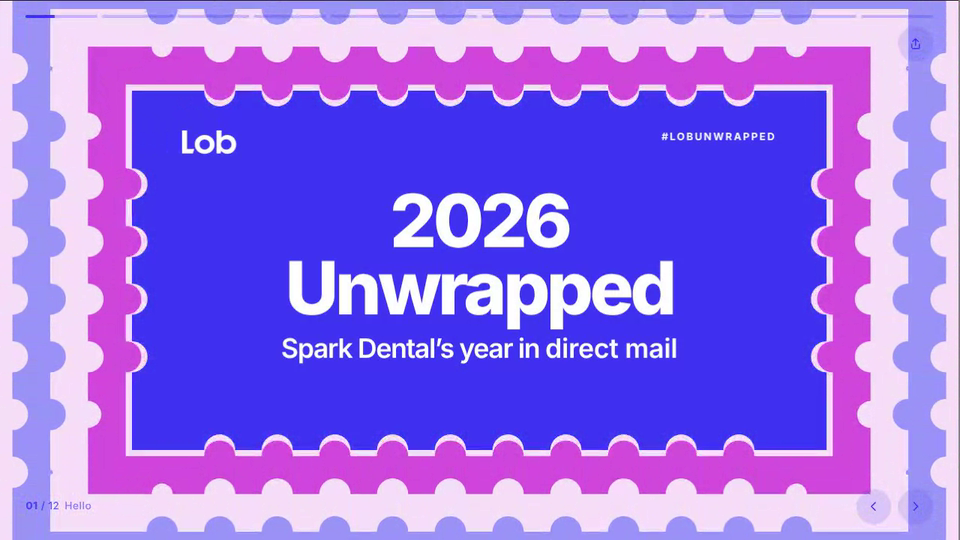
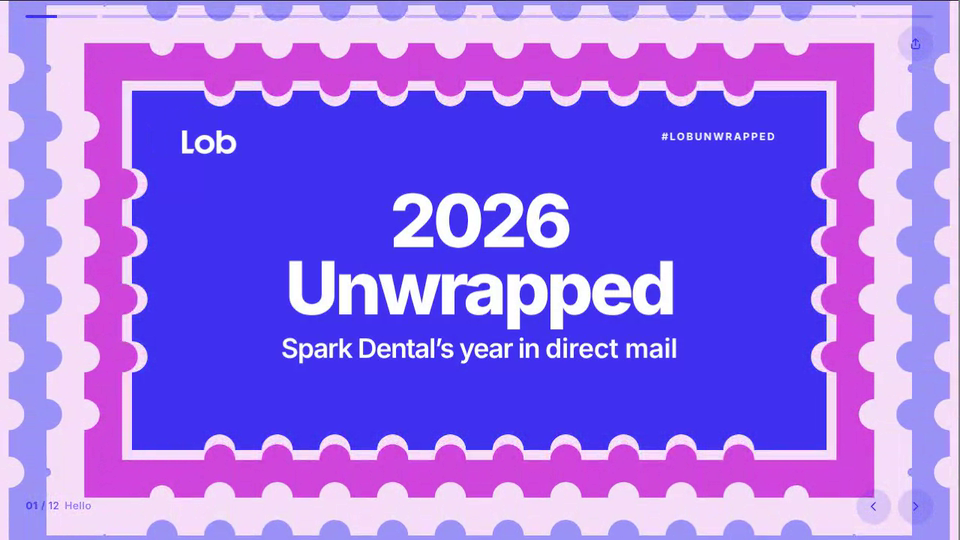
Lob Unwrapped: block map with fixed position and random pop-in, dark pink base behind the PURL rings
Claude-Session: https://claude.ai/code/session_01AHeBdx8DNoKfudp6tSCb8e

diff --git a/lob-unwrapped/index.html b/lob-unwrapped/index.html
@@ -144,7 +144,7 @@ nav.back span{color:#6e6e6e}nav.back b{font-weight:500;color:#fff;overflow:hidde
 .mix small{font:400 calc(var(--u)*3.2)/1.2 var(--sans);opacity:.7}
 @container (max-aspect-ratio:1/1){.mixrow{grid-template-columns:repeat(3,minmax(0,1fr));gap:calc(var(--u)*3)}.mix b{font-size:calc(var(--u)*10)}}
 .scene{width:100%;height:auto;max-height:100%;display:block;overflow:visible}
-.map{position:relative;width:136%;margin:0 -20% 0 -16%;aspect-ratio:1.85;min-height:0}
+.map{position:relative;width:134%;margin:0 -26% 0 -8%;aspect-ratio:1.85;min-height:0}
 @container (max-aspect-ratio:1/1){.map{width:112%;margin:0 -6%}}
 .map canvas{position:absolute;inset:0;width:100%;height:100%}
 .rankwrap{width:100%;display:grid;gap:calc(var(--u)*7)}
@@ -440,7 +440,7 @@ var MIX5=(function(){var base=['circle','rect','square','star','stamp'],o=[],rs=
 /* slide 7: every radiating step a different shape: square, mandala, circle, burst, long rectangle or stamp */
 var MIX6=(function(){var base=['square','scallop','circle','star','rect','stamp'],o=[],rs=4242,b;function rnd(){rs=(rs*16807)%2147483647;return rs/2147483647}
   while(o.length<60){b=base.slice().sort(function(){return rnd()-.5});if(o.length&&b[0]===o[o.length-1])b.push(b.shift());o=o.concat(b)}return o})();
-function rings(ctx,shape,cols,W,Hh,cx,cy,n,t,asp,dx,dy,rot,pts,base){base=base||0;var L=cols.length,cyc=Math.floor(t),ph=t-cyc,Rc=Math.max(W/(2*asp),Hh/2)*(shape==='star'||shape==='scallop'?1.9:1.5),step=Rc/n,k,r,id,ang,sh;ctx.fillStyle=cols[(((cyc-n-1)%L)+L)%L];ctx.fillRect(0,0,W,Hh);
+function rings(ctx,shape,cols,W,Hh,cx,cy,n,t,asp,dx,dy,rot,pts,base,fill0){base=base||0;var L=cols.length,cyc=Math.floor(t),ph=t-cyc,Rc=Math.max(W/(2*asp),Hh/2)*(fill0?2.1:(shape==='star'||shape==='scallop'?1.9:1.5)),step=Rc/n,k,r,id,ang,sh;ctx.fillStyle=fill0||cols[(((cyc-n-1)%L)+L)%L];ctx.fillRect(0,0,W,Hh);
   for(k=n;k>=(base?-3:0);k--){r=base+(k+ph)*step;if(r<=0)continue;id=cyc-k;ang=((id%2+2)%2?1:-1)*rot*(r/step)*Math.PI/180/ (n/2);
     sh=shape==='mix'?MIXSEQ[((id%64)+64)%64]:shape==='mix5'?MIX5[((id%60)+60)%60]:shape==='mix6'?MIX6[((id%60)+60)%60]:shape;ringPath(ctx,sh,cx+dx*r,cy+dy*r,r*(shape==='mix'||shape==='mix5'?({circle:1.1,star:1.28,square:1.18}[sh]||1):shape==='mix6'?({circle:1.2,star:1.35,scallop:1.15,square:1.05}[sh]||1):1),shape==='mix6'?(sh==='rect'?1.5:sh==='stamp'?1.3:1):asp,pts,ang);ctx.fillStyle=cols[((id%L)+L)%L];ctx.fill()}}
 function mkPat(ctx,spec,dpr,seed){var q=spec.split(':'),sz=Math.round(14*dpr),c=document.createElement('canvas'),g,i,j,h;
@@ -485,7 +485,7 @@ function trail(cv,tk){var d=cv.dataset,ctx=cv.getContext('2d'),t0=performance.no
     for(i=5;i>=1;i--){ctx.beginPath();rrect(ctx,x0,y0+i*g,w,h,h*.04);ctx.fillStyle='rgba('+(d.strip||'208,69,220')+','+(op[i-1]*(RM?1:.8+.2*Math.sin(t*2.2-i*.8)))+')';ctx.fill()}
     if(d.trail==='strips'){var pe=cv.closest('.slide').querySelector('.tpiece'),cr2=cv.getBoundingClientRect(),kk=cr2.width?W/cr2.width:1;if(pe){pe.style.left=(x0/kk)+'px';pe.style.top=(y0/kk)+'px';pe.style.width=(w/kk)+'px'}if(!RM)requestAnimationFrame(f);return}
     ctx.save();ctx.beginPath();rrect(ctx,x0,y0,w,h,h*.04);ctx.clip();
-    rings(ctx,d.trail==='purl'?'mix':'rect',d.trail==='purl'?(d.pal==='mag'?['#4131f1','#f7dffa','#f5f5fe','#e28deb']:['#4131f1','#d045dc','#f7dffa','#f5f5fe']):['#ffffff','#f5f5fe'],w,h,cx,cy,7,t/1.7,rt,0,0,10,0);
+    rings(ctx,d.trail==='purl'?'mix':'rect',d.trail==='purl'?(d.pal==='mag'?['#4131f1','#f7dffa','#f5f5fe','#e28deb']:['#4131f1','#d045dc','#f7dffa','#f5f5fe']):['#ffffff','#f5f5fe'],w,h,cx,cy,d.pal==='mag'?9:7,t/1.7,rt,0,0,10,10,0,d.pal==='mag'?'#d045dc':null);
     if(d.trail==='purl'){ctx.beginPath();ctx.arc(cx,cy,h*.3,0,6.2832);ctx.fillStyle='#4131f1';ctx.fill();ringPath(ctx,'star',cx,cy,h*.25,1,10,t*.9);ctx.fillStyle='#f5f5fe';ctx.fill();ctx.beginPath();ctx.arc(cx,cy,h*.06,0,6.2832);ctx.fillStyle='#d045dc';ctx.fill()}
     ctx.restore();
     if(!RM)requestAnimationFrame(f)})(t0)}
@@ -496,30 +496,23 @@ var US=[[-124.7,48.4],[-123.1,48.4],[-122.8,49],[-95.2,49],[-95.2,49.4],[-94.6,4
 var MET=[[40.7,-74],[34.05,-118.2],[41.9,-87.6],[32.8,-96.8],[29.8,-95.4],[38.9,-77],[25.8,-80.2],[33.7,-84.4],[42.4,-71],[33.4,-112],[37.8,-122.4],[47.6,-122.3],[42.3,-83],[45,-93.3],[39.7,-105],[38.6,-90.2],[28,-82.5],[35.2,-80.8],[45.5,-122.7],[36.2,-115.1],[39.1,-94.6],[36.2,-86.8],[40.8,-111.9],[30,-90],[35.1,-106.6],[40.4,-80],[41.5,-81.7],[28.5,-81.4],[29.4,-98.5],[40,-75.2],[39.8,-86.2],[40,-83],[38.6,-121.5],[41.3,-96],[35.5,-97.5],[35.1,-90],[43.6,-116.2],[35.8,-78.6],[32.7,-117.2],[30.3,-97.7],[39.1,-84.5]];
 var K=Math.cos(38*Math.PI/180),DOTS=null;
 function inside(x,y){var c=false;for(var i=0,j=US.length-1;i<US.length;j=i++){var a=US[i],b=US[j];if((a[1]>y)!==(b[1]>y)&&x<(b[0]-a[0])*(y-a[1])/(b[1]-a[1])+a[0])c=!c}return c}
-function dots(){if(DOTS)return DOTS;DOTS=[];var st=.42;
+function dots(){if(DOTS)return DOTS;DOTS=[];var st=1.15;
   for(var la=49.6;la>24.4;la-=st)for(var lo=-125;lo<-66.5;lo+=st/K*1){if(!inside(lo,la))continue;var d=1e9;MET.forEach(function(m){var dx=(lo-m[1])*K,dy=la-m[0];d=Math.min(d,Math.sqrt(dx*dx+dy*dy))});
     var h=Math.abs(Math.sin(lo*12.9898+la*78.233)*43758.5453)%1;DOTS.push({x:(lo+125)*K,y:49.6-la,s:d+h*2.6,rw:Math.round((49.6-la)/st),cl:Math.round(((lo+125)*K)/st)})}
   DOTS.sort(function(a,b){return a.s-b.s});DOTS.forEach(function(d,i){d.r=i/DOTS.length});return DOTS}
-function drawMap(cv,tk){var ds=dots(),ctx=cv.getContext('2d'),t0=performance.now()+300,ph=cv.closest('.slide').querySelector('.map'),grid=null,gk='',rank=[],order=ds.map(function(d,i){return i}).sort(function(a,b){return Math.round(ds[a].y*1000)-Math.round(ds[b].y*1000)||ds[a].x-ds[b].x});
-  order.forEach(function(idx,k){rank[idx]=k});
+/* the map stays exactly where it is: identical square blocks pop in from nothing at random moments, then a few flip colour in the checkerboard style */
+function drawMap(cv,tk){var ds=dots(),ctx=cv.getContext('2d'),t0=performance.now()+300,ph=cv.closest('.slide').querySelector('.map');
+  function c01(v){return Math.max(0,Math.min(1,v))}
   (function f(now){if(tk!==token)return;var sz=fit(cv),W=sz[0],Hh=sz[1],cr=cv.getBoundingClientRect(),pr=ph.getBoundingClientRect(),k=W/cr.width,N=ds.length,
-    mx=(pr.left-cr.left)*k,my=(pr.top-cr.top)*k,mw=pr.width*k,mh=pr.height*k,MW=59.5*K,MH=25.4,sc=Math.min(mw/MW,mh/MH),ox=mx+(mw-MW*sc)/2,oy=my+(mh-MH*sc)/2,cell=.42*sc,
-    T=RM?9:(now-t0)/1000,i,j,d,h,p,fx,fy,sx,sy,idx,ci,cj,side,s0,M,lit,ea,fc,a0,a1,q,gf,gg,amp=RM?0:ease(Math.max(0,Math.min(1,(T-3)/.8)));
-    var key=W+'x'+Hh+':'+Math.round(mx/8)+','+Math.round(my/8);
-    if(gk!==key){var pt=Hh>W,cw=pt?W*.94:W*.5,ch=pt?Hh*.43:Hh*.8,ccx=ox+MW*sc/2,ccy=oy+MH*sc/2,gx=pt?(W-cw)/2:Math.max(W*.5,Math.min(W-cw,ccx-cw/2)),gy=Math.max(0,Math.min(Hh-ch,ccy-ch/2));s0=Math.sqrt(cw*ch/(N*1.12));grid={s:s0,x:gx,y:gy,cols:Math.ceil(cw/s0),rows:Math.ceil(ch/s0)};gk=key;grid.M=grid.cols*grid.rows;grid.chosen={};for(i=0;i<N;i++)grid.chosen[Math.floor(i*(grid.M/N))]=1}
-    s0=grid.s;M=grid.M;
+    mx=(pr.left-cr.left)*k,my=(pr.top-cr.top)*k,mw=pr.width*k,mh=pr.height*k,MW=59.5*K,MH=25.4,sc=Math.min(mw/MW,mh/MH),ox=mx+(mw-MW*sc)/2,oy=my+(mh-MH*sc)/2,side0=1.15*sc*.68,
+    T=RM?9:(now-t0)/1000,i,d,h,hc,hs,p,x,y,side,lit,col,amp=RM?0:ease(c01((T-3)/.8));
     ctx.clearRect(0,0,W,Hh);
-    ea=Math.max(0,Math.min(1,T/.5));
-    /* the checkerboard squares that do not become map cells fade out */
-    fc=ease(Math.max(0,Math.min(1,(T-.9)/.7)));
-    if(fc<1)for(idx=0;idx<M;idx++){if(grid.chosen[idx])continue;ci=idx%grid.cols;cj=Math.floor(idx/grid.cols);ctx.fillStyle=(ci+cj)%2?'rgba(255,255,255,'+.16*ea*(1-fc)+')':'rgba(247,223,250,'+.9*ea*(1-fc)+')';ctx.fillRect(grid.x+ci*s0,grid.y+cj*s0,s0*(1-fc*.6)+.5,s0*(1-fc*.6)+.5)}
-    for(i=0;i<N;i++){d=ds[i];idx=Math.floor(rank[i]*(M/N));ci=idx%grid.cols;cj=Math.floor(idx/grid.cols);sx=grid.x+(ci+.5)*s0;sy=grid.y+(cj+.5)*s0;
-      h=((i*2654435761)>>>0)%1000/1000;p=ease(Math.max(0,Math.min(1,(T-(.9+h*.9))/1)));
-      fx=ox+d.x*sc;fy=oy+d.y*sc;lit=d.r<D.pct/100;side=s0*(1-p)+cell*.9*p;
-      a0=(ci+cj)%2?.16:.9;a1=lit?.95:.24;q=(ci+cj)%2?255:247;
-      ctx.fillStyle='rgba('+Math.round(q+(lit?247-q:255-q)*p)+','+Math.round((ci+cj)%2?255:223)+','+Math.round((ci+cj)%2?255:250)+','+((a0+(a1-a0)*p)*ea)+')';
-      if(p>=1&&amp>0&&(((i*7919+13)*2654435761)>>>0)%1000/1000<.45&&((T/4+h)%1)>=.7)ctx.fillStyle=lit?'#9b93f8':'rgba(247,223,250,.7)';
-      ctx.fillRect(sx+(fx-sx)*p-side/2,sy+(fy-sy)*p-side/2,side,side)}
+    for(i=0;i<N;i++){d=ds[i];h=((i*2654435761)>>>0)%1000/1000;p=ease(c01((T-(.2+h*2.4))/.45));if(p<=0)continue;
+      lit=d.r<D.pct/100;hc=((i*7919+13)*2654435761>>>0)%1000/1000;hs=((i*40503+7)>>>0)%1000/1000;x=ox+d.x*sc;y=oy+d.y*sc;side=side0*p;
+      col=lit?(hc<.55?'247,223,250':hc<.8?'255,255,255':'208,69,220'):'155,147,248';
+      if(amp>0&&((i*104729+3)*2654435761>>>0)%1000/1000<.45&&((T/4+h)%1)>=.7)col=lit?'155,147,248':'247,223,250';
+      ctx.fillStyle='rgba('+col+','+(lit?1:.55)+')';ctx.fillRect(x-side/2,y-side/2,side,side);
+      if(lit&&Math.floor(hs*5)===0){ctx.fillStyle='#4131f1';ctx.fillRect(x-side*.2,y-side*.2,side*.4,side*.4)}}
     if(!RM)requestAnimationFrame(f)})(performance.now())}
 
 /* ---------- sharing ---------- */
